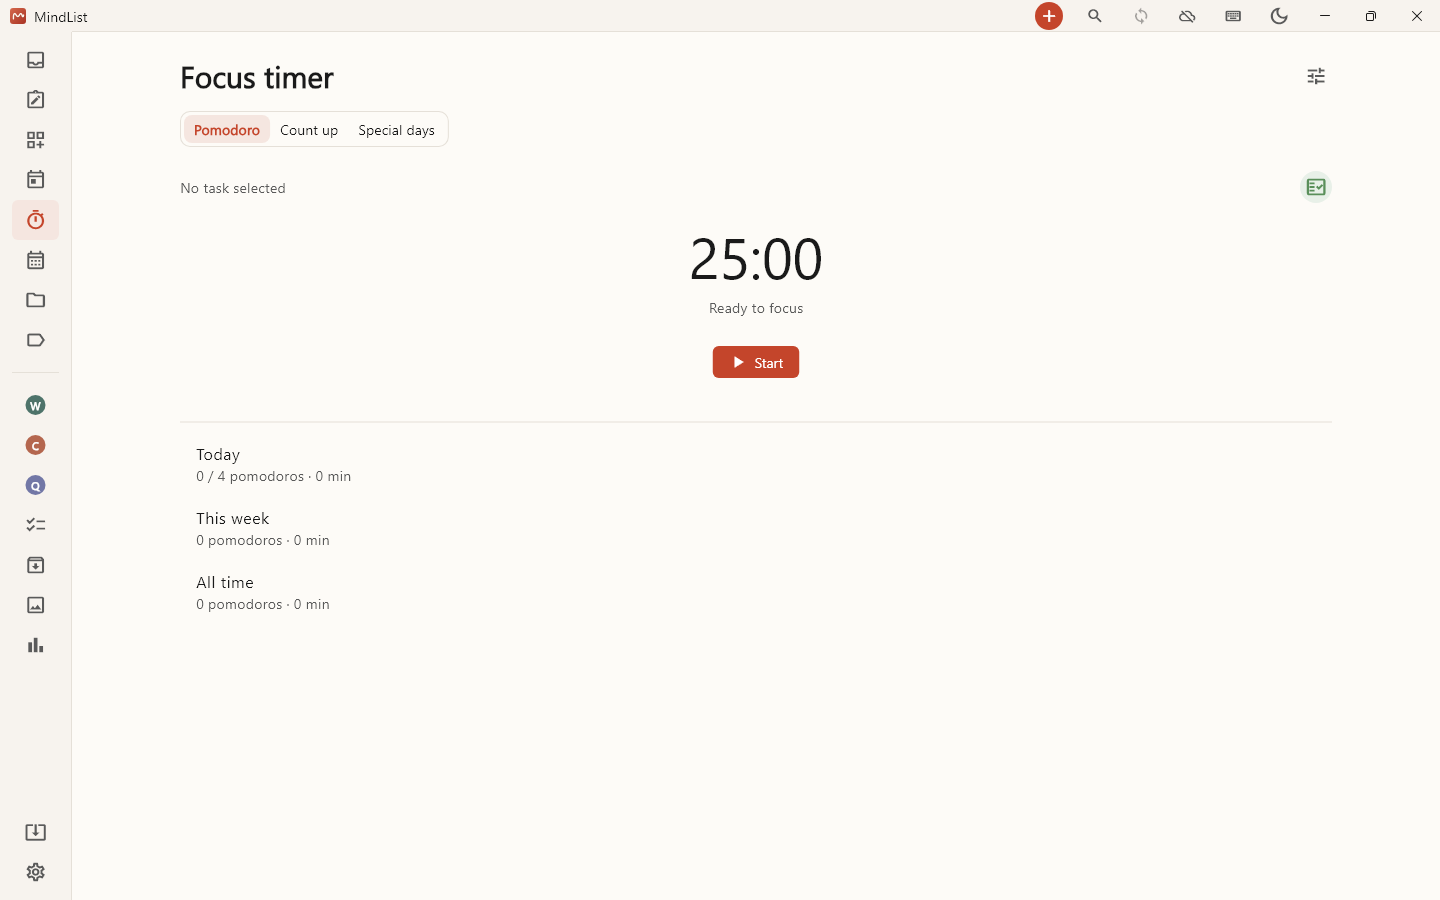
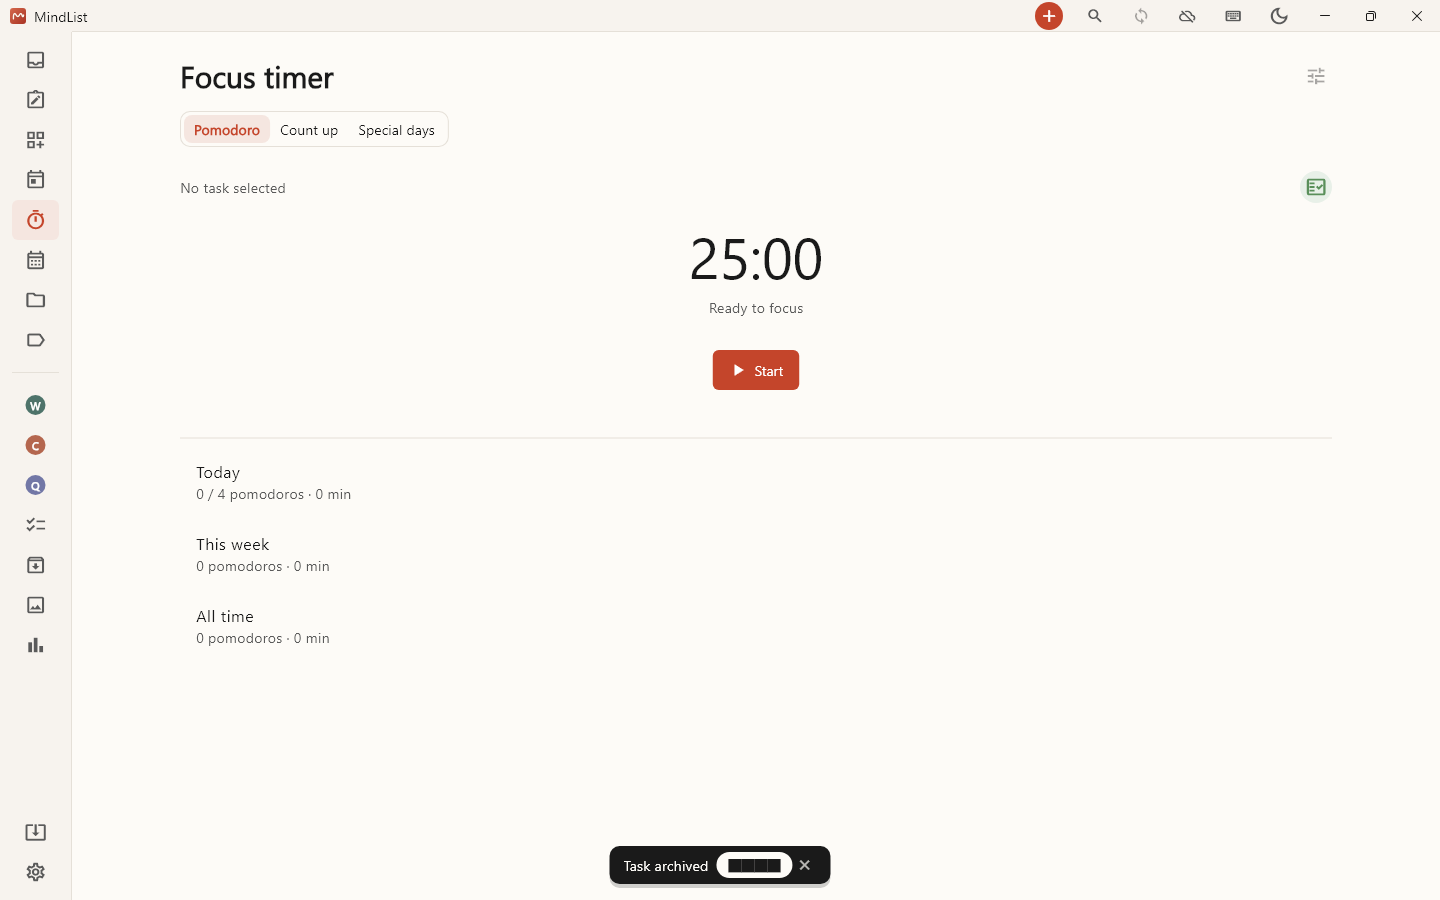
docs: refresh help guide and public screenshots

diff --git a/README.md b/README.md
@@ -46,7 +46,7 @@ Tasks with due times can remind you about an hour beforehand. On mobile, reminde
 
 The interface supports Simplified Chinese, Traditional Chinese, English, Japanese, Korean, German, French, Spanish, and Portuguese. Light, dark, and several additional appearance themes are available.
 
-The [help center](https://mindlist.devinghub.com/help) has a guide and product screenshots for each interface language. Open Help in the app to see the guide in your selected language.
+The [help center](https://mindlist.devinghub.com/help) has step-by-step desktop guides with screenshots generated from the current app in each interface language. Each chapter links back to the guide and has a topic menu. Select a screenshot to view it at full size. Open Help in the app to see the guide in your selected language.
 
 ### Focus timer
 
